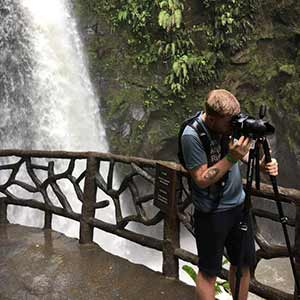
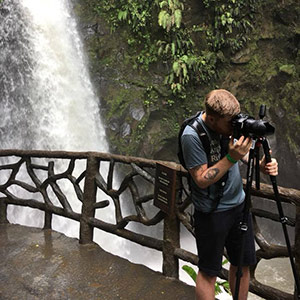
Update image for crisper quality

diff --git a/index.html b/index.html
@@ -25,7 +25,7 @@
       type="text/css"
     >
 
-    <link rel="stylesheet" href="/assets/css/main.css?v=3" />
+    <link rel="stylesheet" href="/assets/css/main.css?v=4" />
     <link rel="shortcut icon" type="image/x-icon" href="/favicon.ico?v=2">
   </head>
   <body>

diff --git a/assets/css/main.css b/assets/css/main.css
@@ -3,7 +3,7 @@
 }
 
 #hello .mdc-card__media {
-  background-image: url("/assets/img/joesak.jpg?v=2");
+  background-image: url("/assets/img/joesak.jpg?v=3");
   background-size: cover;
   background-repeat: no-repeat;
   height: 300px;
